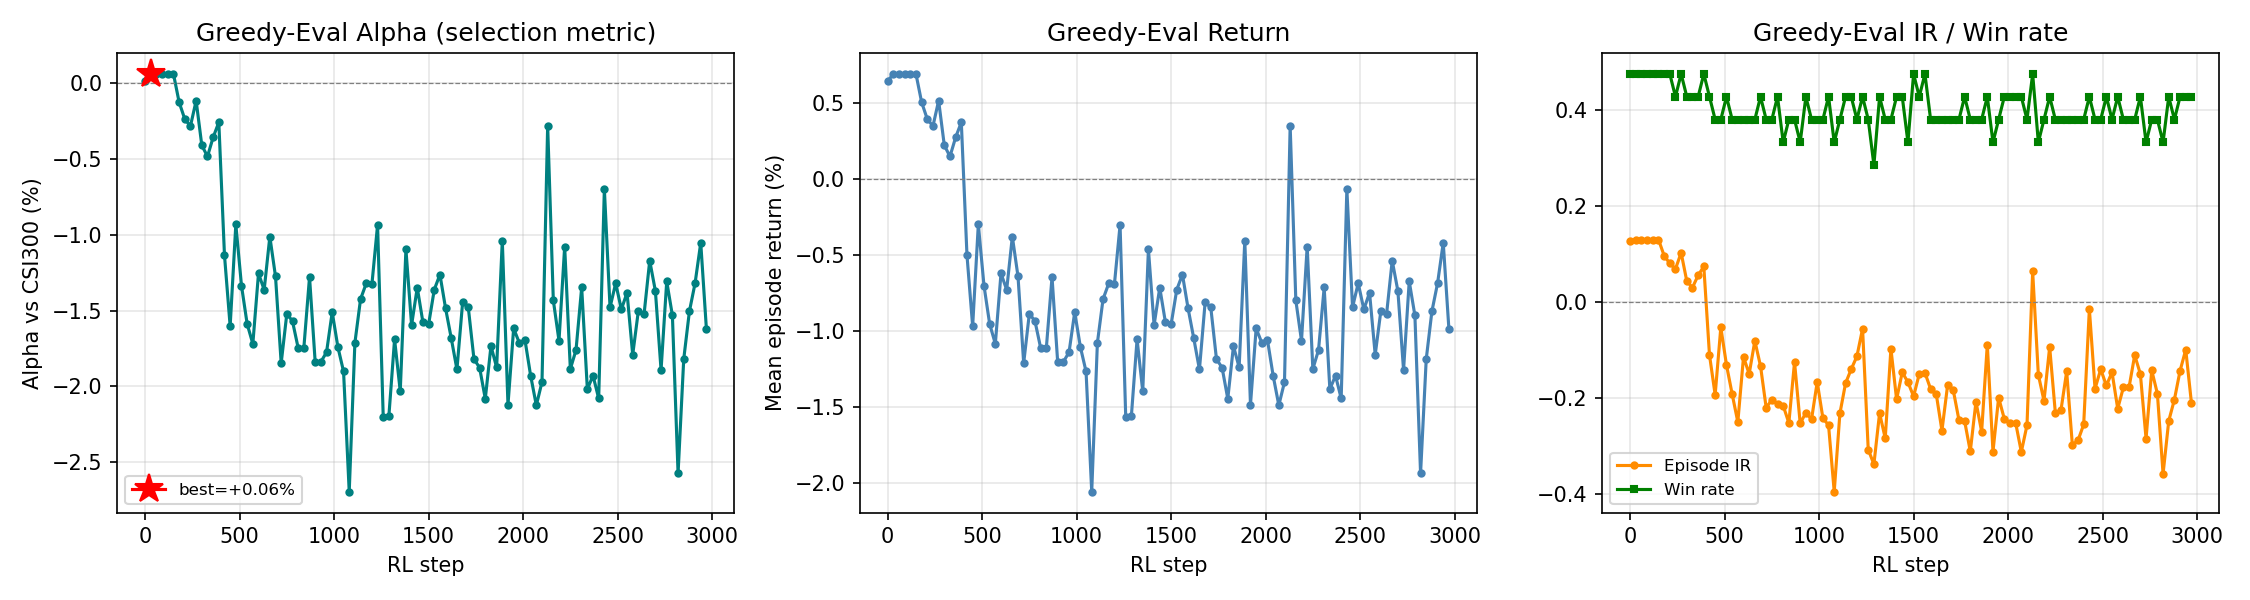
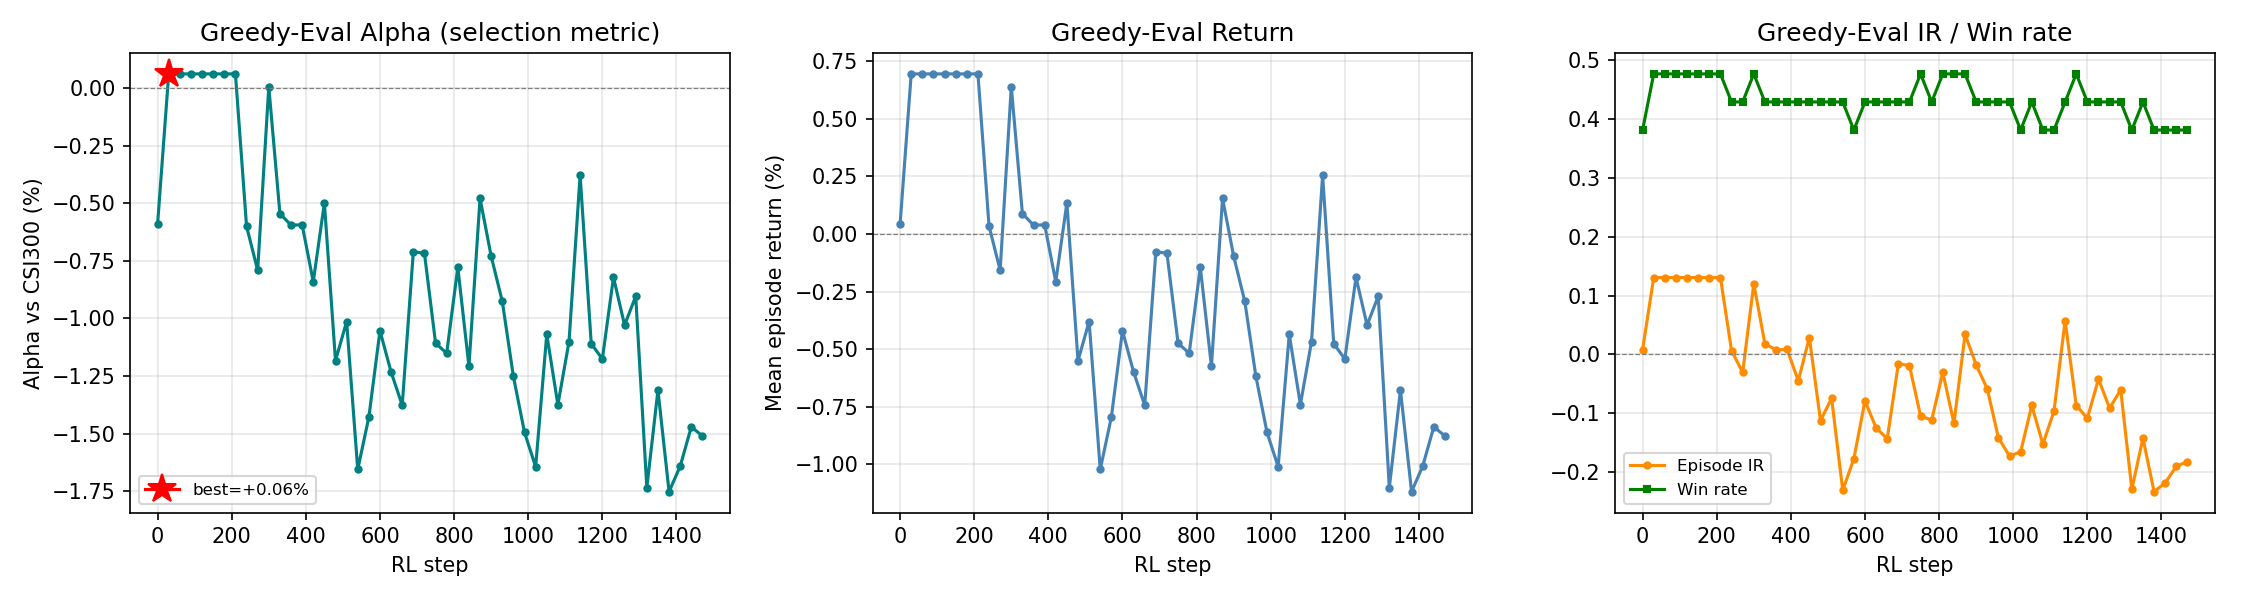
before fixing

diff --git a/train_rl.py b/train_rl.py
@@ -20,7 +20,7 @@ from greedy_eval import build_eval_windows, evaluate_greedy
 from backtest_rl import load_benchmark_close_map
 
 
-SEED = 42
+SEED = 37
 
 
 def set_seed(seed=SEED):
@@ -218,8 +218,12 @@ def main():
     eval_history = []  # (step, excess_mean, mean_ret, episode_ir, win_rate)
     t_start = time.time()
 
+    # 用启动时间戳生成本次训练的唯一文件名，避免覆盖上一次的最佳模型
+    run_tag = time.strftime("%Y%m%d_%H%M%S", time.localtime(t_start))
+    best_model_name = f"best_rl_policy_{run_tag}.pt"
+
     def save_best(step):
-        save_path = os.path.join(config.CACHE_DIR, "best_rl_policy.pt")
+        save_path = os.path.join(config.CACHE_DIR, best_model_name)
         os.makedirs(config.CACHE_DIR, exist_ok=True)
         torch.save({
             "encoder": encoder.state_dict(),
@@ -287,7 +291,7 @@ def main():
     total_time = time.time() - t_start
     print(f"Total training time: {total_time/60:.1f} min "
           f"({total_time/config.RL_STEPS:.2f} s/episode)")
-    print(f"Model saved to {os.path.join(config.CACHE_DIR, 'best_rl_policy.pt')}")
+    print(f"Model saved to {os.path.join(config.CACHE_DIR, best_model_name)}")
     plot_rl_reward_curve(reward_history)
     plot_greedy_eval_curve(eval_history)
 
